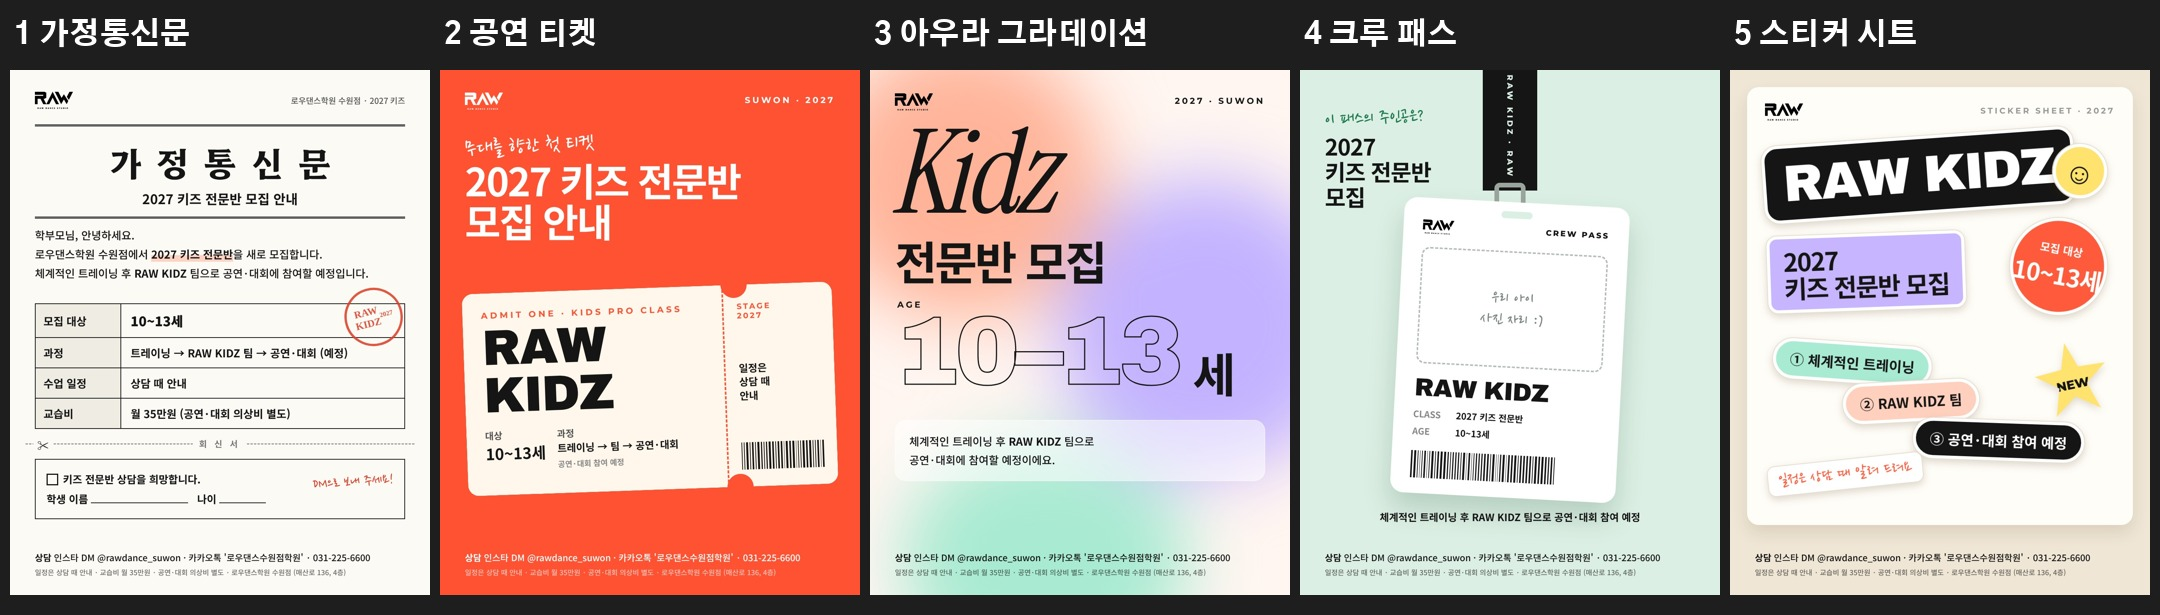
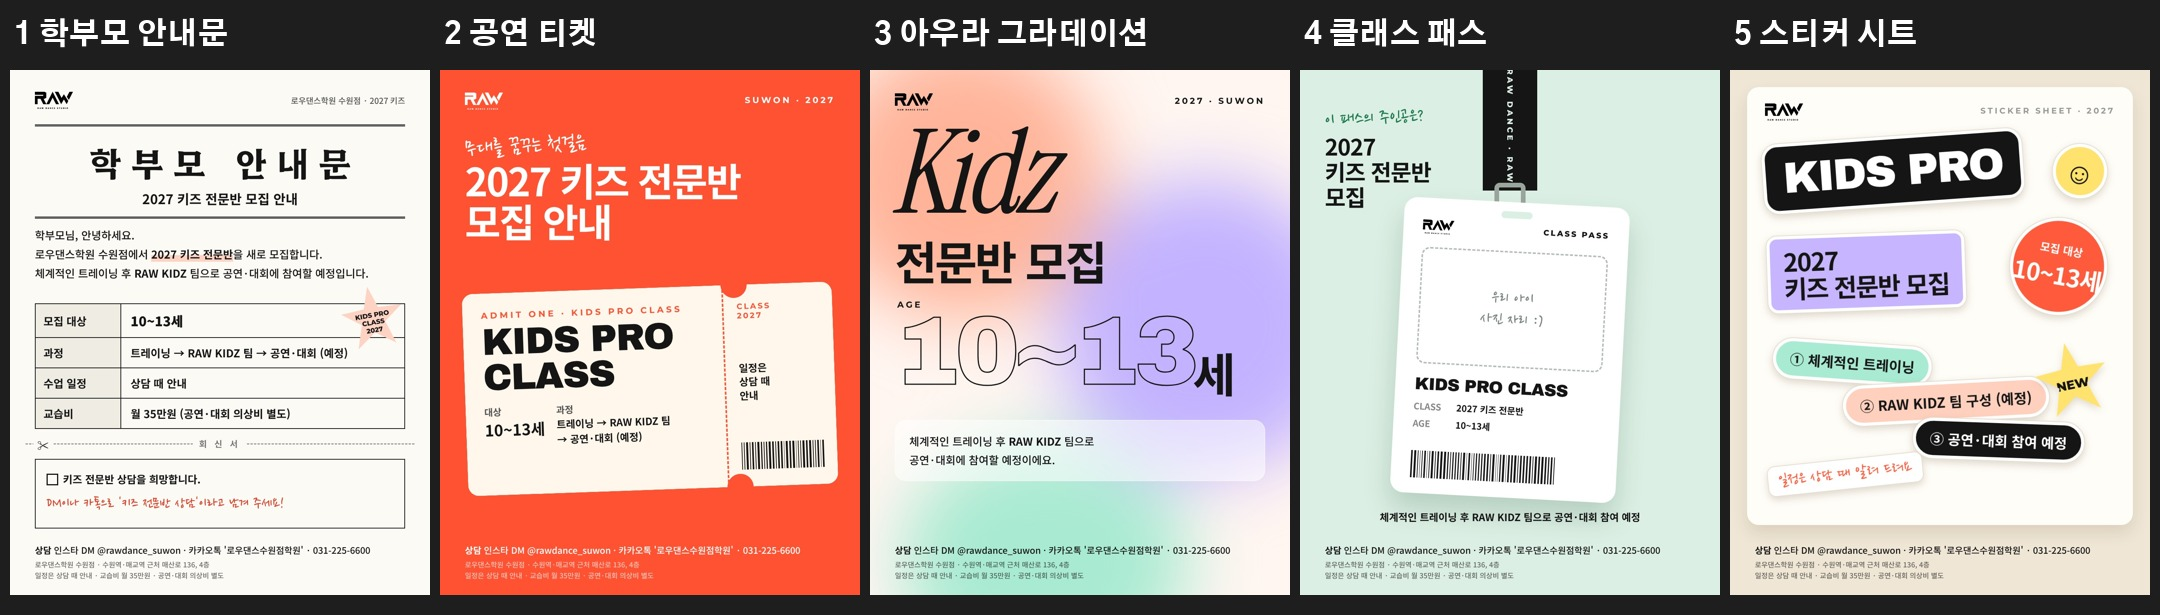
키즈전문반 포스터 2차: 검수 반영(학부모 안내문, 개인정보 칸 삭제, '예정' 표기, RAW KIDZ는 과정 문구에만, 위치 신호)
Claude-Session: https://claude.ai/code/session_01CMPXWNa21Fqq6srPZpa27D

diff --git a/content/2026-11-19_kidz-pro-poster/poster2.html b/content/2026-11-19_kidz-pro-poster/poster2.html
@@ -7,14 +7,14 @@ body{background:#ddd}
 .logo{height:44px;filter:brightness(0)}
 .hand{font-family:"Nanum Pen","Gaegu",cursive}
 .ser{font-family:"Instrument Serif",serif}
-.foot{position:absolute;left:64px;right:64px;bottom:44px;font-size:23px;line-height:1.55;font-weight:500}
+.foot{position:absolute;left:64px;right:64px;bottom:36px;font-size:23px;line-height:1.55;font-weight:500}
 .foot b{font-weight:800}.foot small{display:block;font-size:18px;opacity:.62;margin-top:6px}
 .bar{display:flex;gap:4px;height:70px;align-items:stretch}.bar i{background:#151515}
 </style></head><body><div id="r"></div>
 <script>
 const c=+(new URLSearchParams(location.search).get('c')||1);
 const FOOT=(col='#151515')=>`<div class="foot" style="color:${col}"><b>상담</b> 인스타 DM @rawdance_suwon · 카카오톡 '로우댄스수원점학원' · 031-225-6600
-<small>일정은 상담 때 안내 · 교습비 월 35만원 · 공연·대회 의상비 별도 · 로우댄스학원 수원점 (매산로 136, 4층)</small></div>`;
+<small>로우댄스학원 수원점 · 수원역·매교역 근처 매산로 136, 4층<br>일정은 상담 때 안내 · 교습비 월 35만원 · 공연·대회 의상비 별도</small></div>`;
 const BAR=(n=46,seed=7)=>{let s=seed,o='';for(let i=0;i<n;i++){s=(s*9301+49297)%233280;o+=`<i style="width:${1+Math.floor(s/233280*5)}px"></i>`}return `<div class="bar">${o}</div>`};
 const V={};
 
@@ -23,21 +23,20 @@ V[1]=`<div class="P" style="background:#FBFAF5">
  <div style="position:absolute;left:64px;right:64px;top:56px;display:flex;justify-content:space-between;align-items:center;font-size:21px;font-weight:500;color:#555">
   <img class="logo" src="img/raw-logo-tight.png"><span>로우댄스학원 수원점 · 2027 키즈</span></div>
  <div style="position:absolute;left:64px;right:64px;top:140px;border-top:5px double #151515;border-bottom:5px double #151515;padding:26px 0 22px;text-align:center">
-  <div style="font:700 88px 'Hahmlet',serif;letter-spacing:.45em;margin-right:-.45em">가정통신문</div>
+  <div style="font:700 88px 'Hahmlet',serif;letter-spacing:.3em;margin-right:-.3em">학부모 안내문</div>
   <div style="margin-top:8px;font-size:34px;font-weight:800">2027 키즈 전문반 모집 안내</div></div>
  <div style="position:absolute;left:64px;right:64px;top:400px;font-size:28px;line-height:1.75;font-weight:500">
   학부모님, 안녕하세요.<br>로우댄스학원 수원점에서 <b style="font-weight:800;background:linear-gradient(transparent 58%,#FFD3C4 58%)">2027 키즈 전문반</b>을 새로 모집합니다.<br>체계적인 트레이닝 후 <b style="font-weight:800">RAW KIDZ</b> 팀으로 공연·대회에 참여할 예정입니다.</div>
  <table style="position:absolute;left:64px;right:64px;top:600px;width:952px;border-collapse:collapse;font-size:28px">
   ${[['모집 대상','<b style="font-size:34px">10~13세</b>'],['과정','트레이닝 → RAW KIDZ 팀 → 공연·대회 (예정)'],['수업 일정','상담 때 안내'],['교습비','월 35만원 (공연·대회 의상비 별도)']].map(([a,b])=>`<tr><td style="width:220px;padding:18px 20px;border:2px solid #151515;background:#EFECE3;font-weight:800">${a}</td><td style="padding:18px 24px;border:2px solid #151515;font-weight:600">${b}</td></tr>`).join('')}
  </table>
- <div style="position:absolute;right:70px;top:560px;width:150px;height:150px;border:6px solid #E0402A;border-radius:50%;color:#E0402A;display:flex;align-items:center;justify-content:center;text-align:center;font:800 26px/1.15 'Gothic A1';transform:rotate(-14deg);opacity:.88">RAW<br>KIDZ<br><span style="font-size:17px">2027</span></div>
+ <div style="position:absolute;right:62px;top:556px;width:170px;height:170px;background:#FFD3C4;clip-path:polygon(50% 0,61% 33%,96% 35%,68% 56%,79% 91%,50% 70%,21% 91%,32% 56%,4% 35%,39% 33%);display:flex;align-items:center;justify-content:center;text-align:center;font:800 17px/1.15 Montserrat;padding-top:18px;transform:rotate(-10deg)">KIDS PRO<br>CLASS<br>2027</div>
  <div style="position:absolute;left:40px;right:40px;top:960px;border-top:3px dashed #999"></div>
  <div style="position:absolute;left:60px;top:942px;background:#FBFAF5;padding:0 10px;font-size:30px">✂</div>
  <div style="position:absolute;left:470px;top:944px;background:#FBFAF5;padding:0 16px;font-size:22px;font-weight:800;letter-spacing:.3em;color:#777">회 신 서</div>
  <div style="position:absolute;left:64px;right:64px;top:1000px;border:2px solid #151515;padding:24px 28px;font-size:27px;line-height:1.9;font-weight:600">
   <span style="display:inline-block;width:30px;height:30px;border:3px solid #151515;vertical-align:-5px;margin-right:12px"></span>키즈 전문반 상담을 희망합니다.<br>
-  학생 이름 <span style="display:inline-block;width:250px;border-bottom:2px solid #151515"></span>&nbsp;&nbsp; 나이 <span style="display:inline-block;width:120px;border-bottom:2px solid #151515"></span>
-  <span class="hand" style="position:absolute;right:28px;top:22px;font-size:38px;color:#E0402A;transform:rotate(-4deg)">DM으로 보내 주세요!</span></div>
+  <span class="hand" style="font-size:40px;color:#E0402A">DM이나 카톡으로 '키즈 전문반 상담'이라고 남겨 주세요!</span></div>
  ${FOOT()}
 </div>`;
 
@@ -46,18 +45,18 @@ V[2]=`<div class="P" style="background:#FF5233">
  <img class="logo" src="img/raw-logo-tight.png" style="position:absolute;left:64px;top:58px;filter:brightness(0) invert(1)">
  <div style="position:absolute;right:64px;top:64px;font:700 22px Montserrat;letter-spacing:.25em;color:#fff">SUWON · 2027</div>
  <div style="position:absolute;left:64px;top:150px;color:#fff">
-  <div class="hand" style="font-size:58px;transform:rotate(-3deg)">무대를 향한 첫 티켓</div>
+  <div class="hand" style="font-size:58px;transform:rotate(-3deg)">무대를 꿈꾸는 첫걸음</div>
   <div style="margin-top:6px;font-size:100px;font-weight:800;line-height:1.05;letter-spacing:-.04em">2027 키즈 전문반<br>모집 안내</div></div>
  <div style="position:absolute;left:64px;right:64px;top:560px;height:520px;background:#FFF7EC;border-radius:28px;display:flex;
    -webkit-mask:radial-gradient(circle 34px at 700px 0,#0000 98%,#000) top/100% 51% no-repeat,radial-gradient(circle 34px at 700px 100%,#0000 98%,#000) bottom/100% 51% no-repeat;transform:rotate(-2deg);box-shadow:0 30px 60px rgba(0,0,0,.25)">
   <div style="width:700px;padding:44px 48px;border-right:4px dashed #FF5233;position:relative">
    <div style="font:700 22px Montserrat;letter-spacing:.3em;color:#FF5233">ADMIT ONE · KIDS PRO CLASS</div>
-   <div style="margin-top:10px;font:400 128px/0.95 'Archivo Black';letter-spacing:-.03em">RAW<br>KIDZ</div>
+   <div style="margin-top:10px;font:400 96px/0.95 'Archivo Black';letter-spacing:-.03em">KIDS PRO<br>CLASS</div>
    <div style="margin-top:24px;display:flex;gap:30px;font-size:24px;font-weight:600;color:#555">
     <div>대상<br><b style="font-size:40px;color:#151515;font-weight:800">10~13세</b></div>
-    <div>과정<br><b style="font-size:26px;color:#151515;font-weight:800;line-height:1.5">트레이닝 → 팀 → 공연·대회<br><span style="font-size:20px;color:#888;font-weight:600">공연·대회 참여 예정</span></b></div></div></div>
+    <div>과정<br><b style="font-size:26px;color:#151515;font-weight:800;line-height:1.5">트레이닝 → RAW KIDZ 팀<br>→ 공연·대회 (예정)</b></div></div></div>
   <div style="flex:1;padding:44px 34px;display:flex;flex-direction:column;justify-content:space-between">
-   <div style="font:700 20px Montserrat;letter-spacing:.2em;color:#FF5233">STAGE<br>2027</div>
+   <div style="font:700 20px Montserrat;letter-spacing:.2em;color:#FF5233">CLASS<br>2027</div>
    <div style="font-size:26px;font-weight:800;line-height:1.35">일정은<br>상담 때<br>안내</div>
    ${BAR(30,3)}</div></div>
  ${FOOT('#fff')}
@@ -73,7 +72,7 @@ V[3]=`<div class="P" style="background:#FFF6F1">
  <div style="position:absolute;right:64px;top:66px;font:700 22px Montserrat;letter-spacing:.25em">2027 · SUWON</div>
  <div class="ser" style="position:absolute;left:52px;top:130px;font-size:300px;line-height:.9;font-style:italic;letter-spacing:-.03em">Kidz</div>
  <div style="position:absolute;left:64px;top:430px;font-size:118px;font-weight:800;letter-spacing:-.05em;line-height:1">전문반 모집</div>
- <div style="position:absolute;left:64px;top:600px;font:400 250px/1 'Archivo Black';letter-spacing:-.05em;color:transparent;-webkit-text-stroke:3px #151515">10–13</div>
+ <div style="position:absolute;left:64px;top:600px;font:400 250px/1 'Archivo Black';letter-spacing:-.05em;color:transparent;-webkit-text-stroke:3px #151515">10~13</div>
  <div style="position:absolute;left:830px;top:690px;font-size:120px;font-weight:800;letter-spacing:-.04em">세</div>
  <div style="position:absolute;left:70px;top:590px;font:700 22px Montserrat;letter-spacing:.25em">AGE</div>
  <div style="position:absolute;left:64px;right:64px;top:900px;padding:30px 36px;border-radius:28px;background:rgba(255,255,255,.55);backdrop-filter:blur(10px);border:1.5px solid rgba(255,255,255,.9);font-size:28px;line-height:1.7;font-weight:500">
@@ -83,14 +82,14 @@ V[3]=`<div class="P" style="background:#FFF6F1">
 
 // 4. 크루 패스 목걸이 (사진 자리 비어 있음)
 V[4]=`<div class="P" style="background:#DCEFE4">
- <div style="position:absolute;left:470px;top:-20px;width:140px;height:330px;background:#151515;color:#DCEFE4;font:800 20px Montserrat;letter-spacing:.3em;writing-mode:vertical-rl;text-align:center;line-height:140px;overflow:hidden">RAW KIDZ · RAW KIDZ · RAW KIDZ</div>
+ <div style="position:absolute;left:470px;top:-20px;width:140px;height:330px;background:#151515;color:#DCEFE4;font:800 20px Montserrat;letter-spacing:.3em;writing-mode:vertical-rl;text-align:center;line-height:140px;overflow:hidden">RAW DANCE · RAW DANCE · RAW</div>
  <div style="position:absolute;left:500px;top:290px;width:80px;height:70px;border:12px solid #9AA59E;border-radius:14px"></div>
  <div style="position:absolute;left:250px;top:340px;width:580px;height:760px;background:#fff;border-radius:34px;box-shadow:0 40px 70px rgba(0,60,30,.18);transform:rotate(3deg);padding:56px 50px">
   <div style="position:absolute;left:250px;top:24px;width:80px;height:18px;border-radius:9px;background:#DCEFE4"></div>
-  <div style="display:flex;justify-content:space-between;align-items:center"><img class="logo" src="img/raw-logo-tight.png" style="height:36px"><span style="font:800 20px Montserrat;letter-spacing:.2em">CREW PASS</span></div>
+  <div style="display:flex;justify-content:space-between;align-items:center"><img class="logo" src="img/raw-logo-tight.png" style="height:36px"><span style="font:800 20px Montserrat;letter-spacing:.2em">CLASS PASS</span></div>
   <div style="margin-top:34px;height:300px;border:4px dashed #B5BDB8;border-radius:22px;display:flex;align-items:center;justify-content:center;text-align:center">
    <div class="hand" style="font-size:46px;color:#7A867F;line-height:1.2">우리 아이<br>사진 자리 :)</div></div>
-  <div style="margin-top:30px;font:400 64px/1 'Archivo Black';letter-spacing:-.03em">RAW KIDZ</div>
+  <div style="margin-top:30px;font:400 44px/1 'Archivo Black';letter-spacing:-.03em;white-space:nowrap">KIDS PRO CLASS</div>
   <div style="margin-top:18px;display:grid;grid-template-columns:110px 1fr;row-gap:10px;font-size:23px;font-weight:600">
    <span style="color:#888">CLASS</span><b style="font-weight:800">2027 키즈 전문반</b><span style="color:#888">AGE</span><b style="font-weight:800">10~13세</b></div>
   <div style="position:absolute;left:50px;right:50px;bottom:40px">${BAR(52,11)}</div></div>
@@ -107,11 +106,11 @@ V[5]=`<div class="P" style="background:#EFE6D6">
  <div style="position:absolute;left:44px;right:44px;top:44px;bottom:180px;background:#FFFDF8;border-radius:30px;box-shadow:0 20px 40px rgba(80,50,10,.12)"></div>
  <img class="logo" src="img/raw-logo-tight.png" style="position:absolute;left:90px;top:86px">
  <div style="position:absolute;right:90px;top:92px;font:700 21px Montserrat;letter-spacing:.25em;color:#999">STICKER SHEET · 2027</div>
- ${ST(84,170,-4,`<div style="background:#151515;color:#fff;border:8px solid #fff;outline:2px solid #e5ded0;border-radius:40px;padding:26px 44px;font:400 132px/1 'Archivo Black';letter-spacing:-.04em">RAW KIDZ</div>`)}
+ ${ST(84,170,-4,`<div style="background:#151515;color:#fff;border:8px solid #fff;outline:2px solid #e5ded0;border-radius:40px;padding:26px 44px;font:400 112px/1 'Archivo Black';letter-spacing:-.04em">KIDS PRO</div>`)}
  ${ST(720,380,10,`<div style="width:250px;height:250px;border-radius:50%;background:#FF5A3C;border:8px solid #fff;outline:2px solid #e5ded0;color:#fff;display:flex;flex-direction:column;align-items:center;justify-content:center;font-weight:800"><span style="font-size:28px">모집 대상</span><span style="font-size:62px;letter-spacing:-.03em">10~13세</span></div>`)}
  ${ST(96,420,-2,`<div style="background:#C7B6FF;border:8px solid #fff;outline:2px solid #e5ded0;border-radius:26px;padding:22px 34px;font-size:64px;font-weight:800;letter-spacing:-.04em;line-height:1.08">2027<br>키즈 전문반 모집</div>`)}
  ${ST(110,700,4,`<div style="background:#A9EAD2;border:8px solid #fff;outline:2px solid #e5ded0;border-radius:999px;padding:18px 36px;font-size:36px;font-weight:800">① 체계적인 트레이닝</div>`)}
- ${ST(290,800,-3,`<div style="background:#FFD0BE;border:8px solid #fff;outline:2px solid #e5ded0;border-radius:999px;padding:18px 36px;font-size:36px;font-weight:800">② RAW KIDZ 팀</div>`)}
+ ${ST(290,800,-3,`<div style="background:#FFD0BE;border:8px solid #fff;outline:2px solid #e5ded0;border-radius:999px;padding:18px 36px;font-size:36px;font-weight:800">② RAW KIDZ 팀 구성 (예정)</div>`)}
  ${ST(470,900,2,`<div style="background:#151515;color:#fff;border:8px solid #fff;outline:2px solid #e5ded0;border-radius:999px;padding:18px 36px;font-size:36px;font-weight:800">③ 공연·대회 참여 예정</div>`)}
  ${ST(780,700,-12,`<div style="width:200px;height:200px;background:#FFE36E;clip-path:polygon(50% 0,61% 33%,96% 35%,68% 56%,79% 91%,50% 70%,21% 91%,32% 56%,4% 35%,39% 33%);display:flex;align-items:center;justify-content:center;font:800 32px Montserrat;padding-top:16px">NEW</div>`)}
  ${ST(96,1000,-6,`<div class="hand" style="background:#fff;border:2px solid #e5ded0;border-radius:20px;padding:10px 26px;font-size:44px;color:#FF5A3C">일정은 상담 때 알려 드려요</div>`)}
